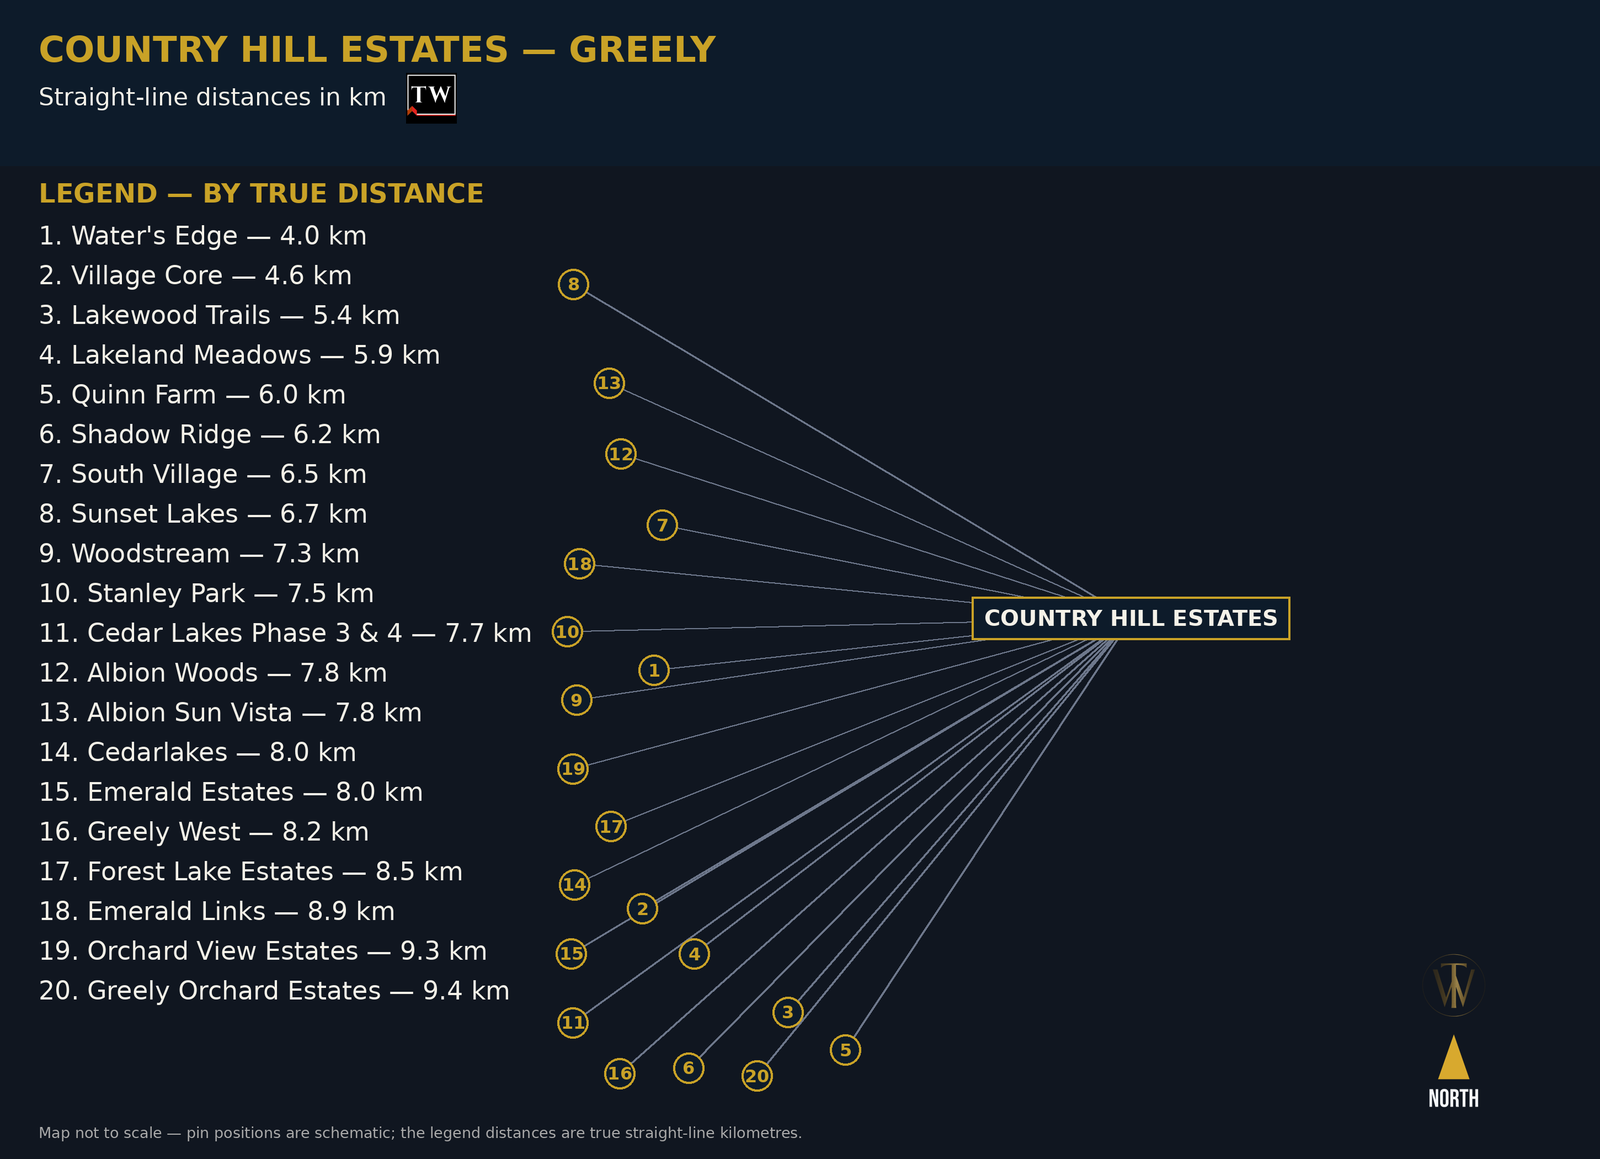
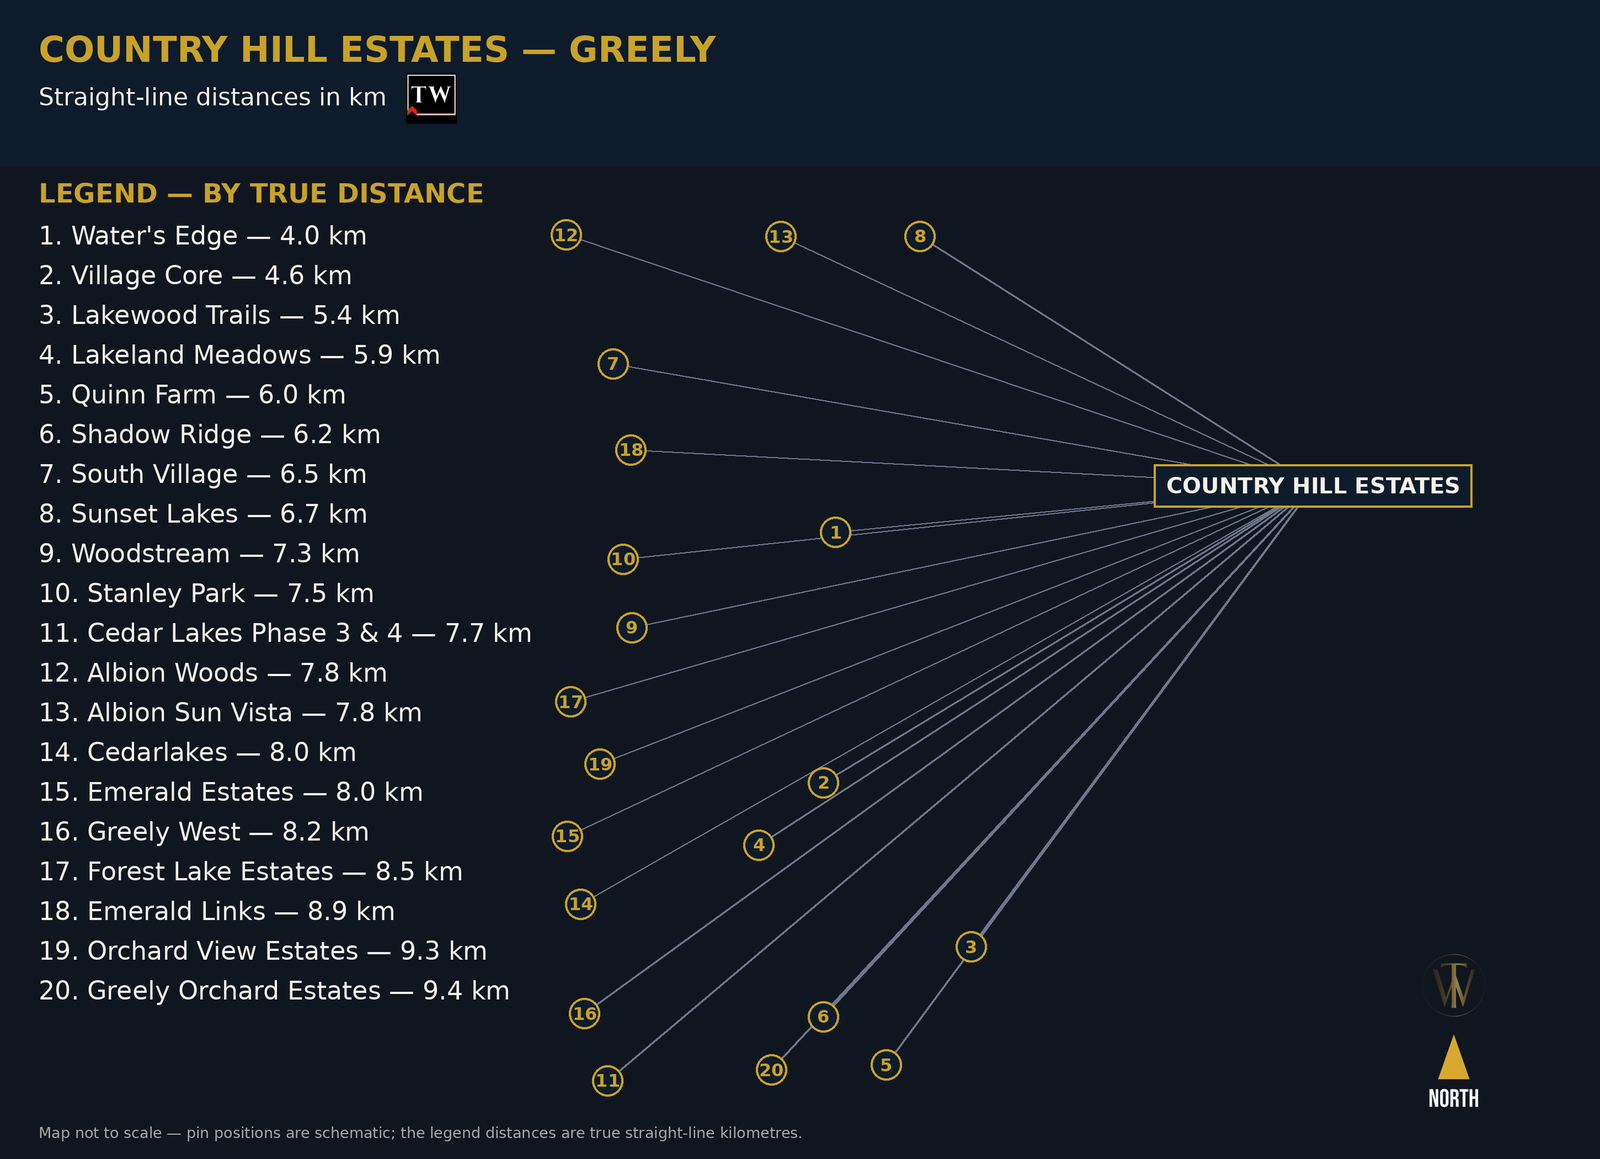
Country Hill Estates fixes (Tom, Nov 23, 15:20): Greely West master map + address table + context copy removed; sun-ray epicentre moved right, fan widened (STRETCH 1.6, min sep 125px); story photo swapped to Iveson x Loney signs frame (no photographer shadow)

diff --git a/paste-country-hill-estates.html b/paste-country-hill-estates.html
@@ -38,8 +38,8 @@
 <p style="text-align:center;"><a href="https://www.sellingottawa.realestate/contact.php"><img src="https://ottawapropertyshop-design.github.io/ottawa-market-widgets/blocks/country-hill-estates/contact-button-country-hill.png" width="100%" alt="Contact Me — Country Hill Estates Homes For Sale — Tomasz R. Witek, REALTOR&reg; Real Estate Agent | eXp Realty, Brokerage | Exp613 | Polski agent w Ottawie | 613-314-1199" style="width:100%;max-width:1000px;height:auto;display:block;margin:0 auto;" /></a></p>
 <h2>The Country Hill Estates story — Greely&rsquo;s two-acre enclave</h2>
 <p>Country Hill Estates grew in phases across Greely&rsquo;s east side, on the high ground between John Quinn Road and the 8th Line. The pattern never changed from phase to phase: a crescent or a way laid out through the trees, lots of roughly two acres, and homes built one at a time — most of them custom, many of them large, all of them set well back from the street. The result is a community that reads less like a subdivision and more like a country neighbourhood that happens to have street signs: Iveson Drive&rsquo;s long run of estate homes, the quiet loops of Whiteside Way and Ira Morgan Way, and the eastern crescents — Albert Bouwers Circle, Ranita Crescent, Veena Way — where Forest Green Crescent runs out toward the 8th Line.</p>
-<p style="text-align:center;"><img src="https://ottawapropertyshop-design.github.io/ottawa-market-widgets/blocks/country-hill-estates/photo-iveson-john-quinn.jpg" width="100%" alt="Country Hill Estates Greely — Iveson Drive curving east at John Quinn Road into Country Hill Estates, Greely, Ottawa — Photo: Tomasz R. Witek" style="width:100%;max-width:1000px;height:auto;display:block;margin:0 auto;" /></p>
-<p style="text-align:center;"><em>Photo: Tomasz R. Witek — Iveson Drive at John Quinn Road, looking into the community.</em></p>
+<p style="text-align:center;"><img src="https://ottawapropertyshop-design.github.io/ottawa-market-widgets/blocks/country-hill-estates/photo-iveson-loney-signs.jpg" width="100%" alt="Country Hill Estates Greely — the Iveson Drive and Loney Crescent street signs at the corner in Country Hill Estates, with a new home under construction behind the trees, Greely, Ottawa — Photo: Tomasz R. Witek" style="width:100%;max-width:520px;height:auto;display:block;margin:0 auto;" /></p>
+<p style="text-align:center;"><em>Photo: Tomasz R. Witek — the Iveson Drive and Loney Crescent signs, with a new home under construction behind the trees.</em></p>
 <p>The setting is the point. Metcalfe is minutes south with its arena, schools and fairgrounds; Bank Street carries you north to the city — about twenty minutes to downtown in the community&rsquo;s own listing copy, with Highway 417 about ten minutes away. Yet inside the boundary the streets stay dark, quiet and treed, the lots stay two acres deep, and the village of Greely — its plaza, Community Centre and library — sits a few minutes west. It is the combination buyers come here for: a country estate inside Ottawa&rsquo;s boundary, in a village that still works like a village.</p>
 <h2>Lots are still available in Country Hill Estates — talk to Tom</h2>
 <p>Most Greely communities in this series are finished — what you see is what was built. Country Hill Estates is still releasing: its newest phase, on <strong>McDonell Crescent</strong> at the John Quinn Road corner of the community, has estate lots on the market now — roughly two-acre parcels, some larger, with electricity at the lot line, offered for a custom build. The live land section at the top of this guide shows what is currently listed; lots here are sold with the builder schedules and conditions the listings spell out, so read a lot listing the way you would read a contract — or have me read it with you.</p>
@@ -58,11 +58,6 @@
 </ul>
 <p style="text-align:center;"><img src="https://ottawapropertyshop-design.github.io/ottawa-market-widgets/blocks/country-hill-estates/country-hill-sunray-map.png" width="100%" alt="Country Hill Estates Greely map — straight-line distances in kilometres from Country Hill Estates to every Greely sub-area, numbered by true distance — Map created by Tomasz R. Witek" style="width:100%;max-width:1000px;height:auto;display:block;margin:0 auto;" /></p>
 <p style="text-align:center;"><em>Country Hill Estates among Greely&rsquo;s sub-areas — every distance a true straight-line measurement.</em></p>
-<p>For context, the village&rsquo;s west side is mapped as one perimeter in the Greely West guide — the approved perimeter map and address table for that group are below. Country Hill Estates sits on the opposite, eastern side of the village; note that the group table&rsquo;s accounting covers the west-side communities only and does not include Country Hill Estates.</p>
-<p style="text-align:center;"><img src="https://ottawapropertyshop-design.github.io/ottawa-market-widgets/blocks/country-hill-estates/greely-west-master-map.png" width="100%" alt="Greely West group perimeter map — Forest Walk, Emerald Links, Emerald Estates and Greely West in the west end of Greely, Ottawa — Map created by Tomasz R. Witek" style="width:100%;max-width:1000px;height:auto;display:block;margin:0 auto;" /></p>
-<p style="text-align:center;"><em>The Greely West group perimeter — the village&rsquo;s west-side communities, mapped as one group; Country Hill Estates lies east of this group, across the village.</em></p>
-<p style="text-align:center;"><img src="https://ottawapropertyshop-design.github.io/ottawa-market-widgets/blocks/country-hill-estates/greely-west-address-table.png" width="100%" alt="Greely West group address table — the verified civic address counts for Forest Walk, Emerald Links, Emerald Estates, Greely West and the Manotick Station strip, Greely, Ottawa" style="width:100%;max-width:1000px;height:auto;display:block;margin:0 auto;" /></p>
-<p style="text-align:center;"><em>The west-side group&rsquo;s verified address table — every community in the Greely West perimeter counted from the City of Ottawa civic address file. Country Hill Estates is not part of this group and is not counted in this table.</em></p>
 <h2>Schools in Country Hill Estates</h2>
 <p>Country Hill Estates&rsquo; designated school paths were checked in November 2026 against the boards&rsquo; own published catchment boundaries and sector data, for the 2026-2027 school year — the Ottawa-Carleton District School Board (public, English and French Immersion programs), the Ottawa Catholic School Board, the Conseil des écoles publiques de l&rsquo;Est de l&rsquo;Ontario (French public) and the Conseil des écoles catholiques du Centre-Est (French Catholic). This is one of the Greely pockets where the lines run through the community: the public boards split it cleanly between a west side and an east side, and the Catholic elementary line crosses it as well. Every one of the community&rsquo;s 282 addresses was counted against each boundary, and the split is set out exactly, street by street. One clear line per path:</p>
 <p><strong>Public, English program (OCDSB) — west side</strong> (Iveson Drive, McDonell Crescent, Loney Crescent, Whiteside Way, Erbmill Lane, Resolute Way, Ira Morgan Way, Adam Baker Way, Ramar Lane): Greely Elementary School (Junior Kindergarten to Grade 6) &rarr; Metcalfe Public School (Grades 7 to 8) &rarr; Osgoode Township High School (Grades 9 to 12).</p>
